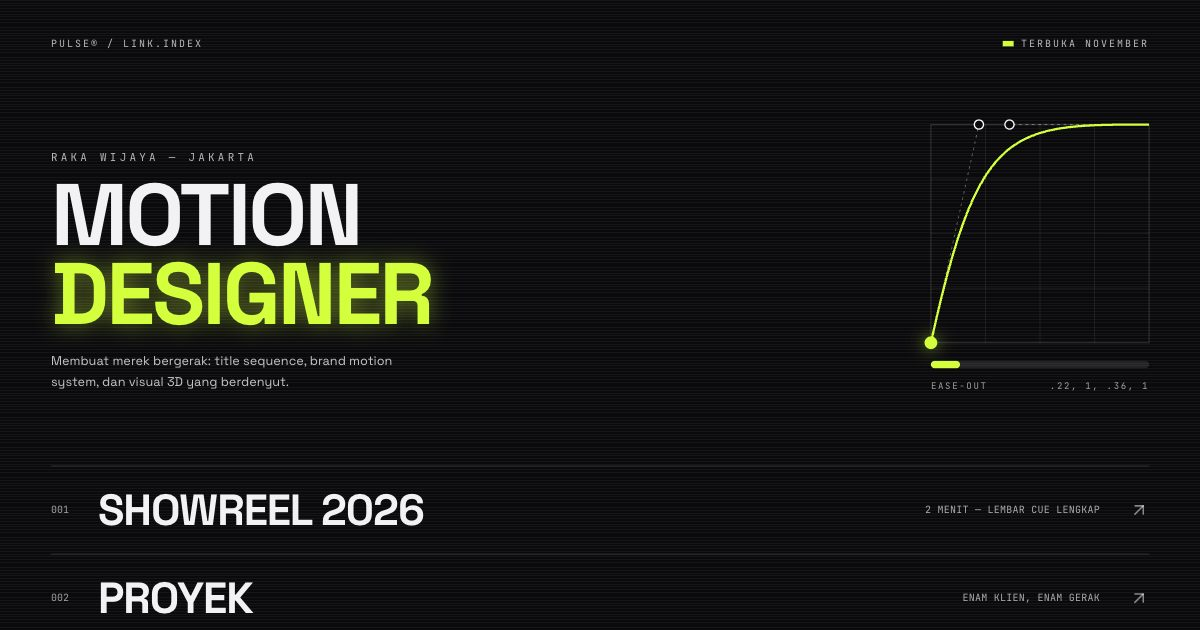
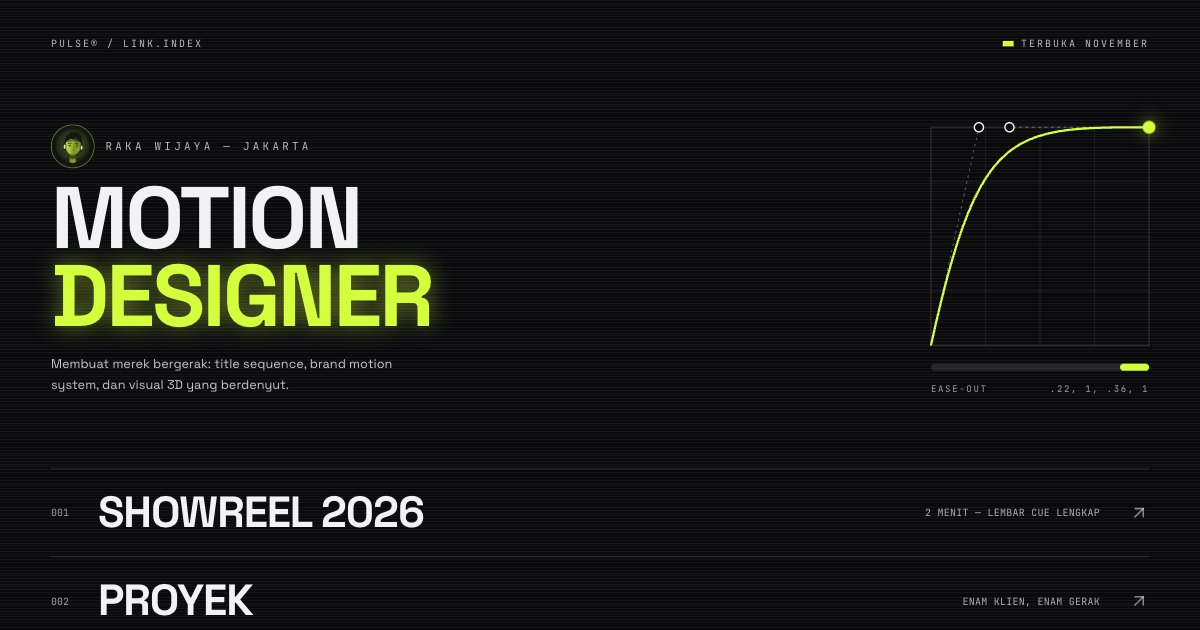
Tambah potret Raka dan bingkai diam showreel serta proyek
- Potret ilustrasi duotone lime kecil di samping nama di beranda (persona fiktif)
- Lembar cue /showreel kini punya monitor yang menampilkan bingkai diam segmen
  yang ditunjuk penanda waktu; daftar proyek bergambar bingkainya
- Delapan ilustrasi asli dicatat di public/images/SUMBER.md; gambar statis
  lewat scripts/static-images.mjs dengan <img srcset>; og.jpg diperbarui

diff --git a/lib/pulse.js b/lib/pulse.js
@@ -16,6 +16,19 @@ export const LINKS = [
   { no: '004', label: 'HIRE ME', meta: 'slot bulan depan terbuka', href: '/hire#form' },
 ];
 
+// Bingkai diam (ilustrasi) tiap segmen showreel dan proyek, di public/images/reel/.
+export const BINGKAI = {
+  pembuka: 'Bingkai pembuka showreel: huruf PULSE berdenyut di tengah cincin lime dan garis detak.',
+  'kota-tanpa-tidur': 'Bingkai title sequence Kota Tanpa Tidur: lampu jalan menyala satu per satu membentuk kata KOTA di atas siluet kota malam.',
+  arus: 'Bingkai brand motion Arus: logo cair berubah dari bulatan menjadi tetesan, lalu ikon tukar transaksi.',
+  'kopi-pagi': 'Bingkai iklan Kopi Pagi: uap dari cangkir kopi membentuk angka jam 07:00.',
+  'riuh-fest': 'Bingkai paket loop Riuh Fest: delapan bentuk dari satu sistem, masing-masing berwarna lain.',
+  penutup: 'Kartu penutup: garis neon menggambar nama RAKA dan alamat raka.pulse.',
+  'peta-rasa': 'Bingkai infografik Peta Rasa: peta Indonesia dari titik-titik dengan sorotan data provinsi.',
+  napas: 'Bingkai animasi aplikasi Napas: tiga layar ponsel dengan lingkaran napas yang mengembang dan mengempis.',
+};
+export const SEGMEN_BINGKAI = ['pembuka', 'kota-tanpa-tidur', 'arus', 'kopi-pagi', 'riuh-fest', 'penutup'];
+
 // Lembar cue showreel 120 detik: [mulai, selesai, proyek, klien, alat, catatan].
 export const CUE = [
   [0, 14, 'Pembuka "PULSE"', 'Proyek pribadi', 'After Effects', 'Huruf yang berdenyut mengikuti ketukan 120 bpm.'],
@@ -27,12 +40,12 @@ export const CUE = [
 ];
 
 export const PROYEK = [
-  { nama: 'Kota Tanpa Tidur', jenis: 'Title sequence', tahun: 2026, durasi: '48 dtk', hasil: 'Diputar di 3 festival film dokumenter (fiktif)' },
-  { nama: 'Arus', jenis: 'Brand motion system', tahun: 2026, durasi: '24 aset', hasil: 'Dipakai di aplikasi & layar kantor cabang' },
-  { nama: 'Kopi Pagi', jenis: 'Iklan 15 detik', tahun: 2025, durasi: '15 dtk', hasil: 'Tiga versi rasio: 9:16, 1:1, 16:9' },
-  { nama: 'Riuh Fest', jenis: 'Loop media sosial', tahun: 2025, durasi: '8 × 6 dtk', hasil: 'Satu sistem bentuk, delapan warna' },
-  { nama: 'Peta Rasa', jenis: 'Infografik bergerak', tahun: 2024, durasi: '90 dtk', hasil: 'Data 34 provinsi dalam satu peta' },
-  { nama: 'Napas', jenis: 'Animasi aplikasi', tahun: 2024, durasi: '12 animasi', hasil: 'Animasi Lottie di bawah 40 KB per file' },
+  { nama: 'Kota Tanpa Tidur', bingkai: 'kota-tanpa-tidur', jenis: 'Title sequence', tahun: 2026, durasi: '48 dtk', hasil: 'Diputar di 3 festival film dokumenter (fiktif)' },
+  { nama: 'Arus', bingkai: 'arus', jenis: 'Brand motion system', tahun: 2026, durasi: '24 aset', hasil: 'Dipakai di aplikasi & layar kantor cabang' },
+  { nama: 'Kopi Pagi', bingkai: 'kopi-pagi', jenis: 'Iklan 15 detik', tahun: 2025, durasi: '15 dtk', hasil: 'Tiga versi rasio: 9:16, 1:1, 16:9' },
+  { nama: 'Riuh Fest', bingkai: 'riuh-fest', jenis: 'Loop media sosial', tahun: 2025, durasi: '8 × 6 dtk', hasil: 'Satu sistem bentuk, delapan warna' },
+  { nama: 'Peta Rasa', bingkai: 'peta-rasa', jenis: 'Infografik bergerak', tahun: 2024, durasi: '90 dtk', hasil: 'Data 34 provinsi dalam satu peta' },
+  { nama: 'Napas', bingkai: 'napas', jenis: 'Animasi aplikasi', tahun: 2024, durasi: '12 animasi', hasil: 'Animasi Lottie di bawah 40 KB per file' },
 ];
 
 export const TARIF = [

diff --git a/app/components/LembarCue.jsx b/app/components/LembarCue.jsx
@@ -1,7 +1,8 @@
 'use client';
 
 import { useState } from 'react';
-import { CUE, tc } from '@/lib/pulse';
+import { BINGKAI, CUE, SEGMEN_BINGKAI, tc } from '@/lib/pulse';
+import Gambar from './Gambar';
 
 const TOTAL = CUE[CUE.length - 1][1];
 
@@ -14,6 +15,13 @@ export default function LembarCue() {
   return (
     <section aria-labelledby="cue-h" className="relative z-10 mt-12 rounded-2xl border border-white/15 bg-white/[0.03] p-5 md:p-8">
       <h2 id="cue-h" className="sr-only">Lembar cue showreel</h2>
+      {/* Monitor: bingkai diam segmen yang sedang ditunjuk penanda waktu */}
+      <div className="relative mb-6 aspect-video overflow-hidden rounded-xl border border-white/15 bg-[#0a0a0c]">
+        {SEGMEN_BINGKAI.map((b, k) => (
+          <Gambar key={b} src={`/images/reel/${b}.webp`} alt={k === i ? BINGKAI[b] : ''} aria-hidden={k === i ? undefined : 'true'} width={1280} height={720} asli={1280} sizes="(min-width: 1024px) 860px, calc(100vw - 88px)" className={`absolute inset-0 h-full w-full object-cover transition-opacity duration-300 ${k === i ? 'opacity-100' : 'opacity-0'}`} />
+        ))}
+        <span className="absolute left-3 top-3 rounded bg-black/70 px-2 py-1 font-mono text-[10px] uppercase tracking-[0.2em] text-[#d3ff3d]" aria-hidden="true">● segmen {i + 1}/{CUE.length}</span>
+      </div>
       <div className="flex items-baseline justify-between font-mono">
         <span className="text-4xl font-bold text-[#d3ff3d] md:text-6xl" aria-hidden="true">{tc(t)}</span>
         <span className="text-xs uppercase tracking-[0.2em] text-white/65">/ {tc(TOTAL)}</span>

diff --git a/app/showreel/page.js b/app/showreel/page.js
@@ -1,4 +1,5 @@
-import { PROYEK, SITE } from '@/lib/pulse';
+import { BINGKAI, PROYEK, SITE } from '@/lib/pulse';
+import Gambar from '../components/Gambar';
 import Kembali from '../components/Kembali';
 import LembarCue from '../components/LembarCue';
 
@@ -21,7 +22,8 @@ export default function Showreel() {
         <h2 id="proyek-h" className="font-mono text-xs uppercase tracking-[0.3em] text-white/70">002 / proyek</h2>
         <ul className="mt-4 border-t border-white/15">
           {PROYEK.map((p) => (
-            <li key={p.nama} className="grid gap-2 border-b border-white/15 py-5 md:grid-cols-[minmax(0,1.3fr)_minmax(0,1fr)_minmax(0,1.4fr)] md:items-baseline md:gap-6">
+            <li key={p.nama} className="grid grid-cols-[7rem_minmax(0,1fr)] gap-x-4 gap-y-2 border-b border-white/15 py-5 md:grid-cols-[10rem_minmax(0,1.3fr)_minmax(0,1fr)_minmax(0,1.4fr)] md:items-center md:gap-6">
+              <Gambar src={`/images/reel/${p.bingkai}.webp`} alt={BINGKAI[p.bingkai]} width={1280} height={720} asli={1280} sizes="(min-width: 768px) 160px, 112px" className="row-span-3 aspect-video w-full rounded-md border border-white/15 object-cover md:row-span-1" />
               <p className="font-display text-3xl font-bold uppercase tracking-tight">{p.nama}</p>
               <p className="font-mono text-xs uppercase tracking-wide text-[#d3ff3d]">{p.jenis} · {p.tahun} · {p.durasi}</p>
               <p className="text-sm text-white/75">{p.hasil}</p>

diff --git a/app/components/Gambar.jsx b/app/components/Gambar.jsx
@@ -1,0 +1,33 @@
+import manifest from '@/image-manifest.json';
+
+// Gambar statis tanpa JavaScript klien: <img> biasa dengan srcset varian WebP buatan
+// scripts/static-images.mjs (peta hash di image-manifest.json, sama seperti image-loader.js).
+// width/height = ukuran tampil (px CSS); tanpa `sizes` dipakai deskriptor 1x/2x,
+// dengan `sizes` dipakai deskriptor lebar sampai `asli` (lebar berkas sumber).
+const LEBAR = [64, 128, 256, 384, 640, 828, 1080, 1280, 1920];
+const varian = (src, w) => {
+  const hash = manifest[src];
+  return hash ? `/_img${src.replace(/\.(png|jpe?g|webp)$/i, '')}.${hash}-${w}.webp` : src;
+};
+const naik = (w) => LEBAR.find((x) => x >= w) ?? LEBAR[LEBAR.length - 1];
+
+export default function Gambar({ src, alt, width, height, sizes, asli = 1920, priority = false, ...rest }) {
+  const srcSet = sizes
+    ? LEBAR.filter((w) => w <= naik(asli)).map((w) => `${varian(src, w)} ${w}w`).join(', ')
+    : `${varian(src, naik(width))} 1x, ${varian(src, naik(width * 2))} 2x`;
+  return (
+    // eslint-disable-next-line @next/next/no-img-element
+    <img
+      src={varian(src, naik(sizes ? Math.min(asli, 1080) : width * 2))}
+      srcSet={srcSet}
+      sizes={sizes}
+      alt={alt}
+      width={width}
+      height={height}
+      loading={priority ? 'eager' : 'lazy'}
+      fetchPriority={priority ? 'high' : undefined}
+      decoding="async"
+      {...rest}
+    />
+  );
+}

diff --git a/app/page.js b/app/page.js
@@ -1,4 +1,5 @@
 import Link from 'next/link';
+import Gambar from './components/Gambar';
 import { ArrowUpRight } from 'lucide-react';
 import { LINKS, PROFIL } from '@/lib/pulse';
 import { hariIniWIB } from '@/lib/waktu';
@@ -49,7 +50,10 @@ export default function Home() {
 
       <section className="masuk relative z-10 mt-14 md:mt-20 md:flex md:items-end md:justify-between md:gap-10" style={{ animationDelay: '0.05s' }}>
         <div>
-          <p className="font-mono text-xs uppercase tracking-[0.3em] text-white/70">{PROFIL.nama} — {PROFIL.kota}</p>
+          <p className="flex items-center gap-3 font-mono text-xs uppercase tracking-[0.3em] text-white/70">
+            <Gambar src="/images/raka-wijaya.webp" alt={`Potret ilustrasi ${PROFIL.nama}`} width={48} height={48} loading="eager" className="h-12 w-12 shrink-0 rounded-full border border-[#d3ff3d]/50 object-cover" />
+            <span>{PROFIL.nama} — {PROFIL.kota}</span>
+          </p>
           <h1 className="mt-3 text-6xl font-bold uppercase leading-[0.9] md:text-8xl">
             Motion<br /><span className="neon-lime">Designer</span>
           </h1>

diff --git a/image-loader.js b/image-loader.js
@@ -1,0 +1,15 @@
+// Loader next/image untuk gambar statis: varian WebP di public/_img/ buatan skrip static-images (lihat
+// image-manifest.json). Tidak memakai Image Optimization Vercel, jadi tidak terikat kuota bulanan.
+// Lebar yang diminta selalu salah satu dari deviceSizes/imageSizes di next.config (= WIDTHS di bawah).
+// Gambar di luar manifest (SVG, GIF, URL luar, impor statis) dikembalikan apa adanya.
+import manifest from './image-manifest.json'
+
+const WIDTHS = [64,128,256,384,640,828,1080,1280,1920]
+
+export default function staticImageLoader({ src, width }) {
+  const hash = manifest[src]
+  if (!hash) return src
+  const w = WIDTHS.find((x) => x >= width) ?? WIDTHS[WIDTHS.length - 1]
+  const stem = src.slice("".length).replace(/\.(png|jpe?g|webp)$/i, '')
+  return `/_img${stem}.${hash}-${w}.webp`
+}

diff --git a/public/images/SUMBER.md b/public/images/SUMBER.md
@@ -1,0 +1,10 @@
+# Sumber gambar
+
+Semua gambar di folder ini adalah ilustrasi asli buatan PintuWeb (digambar lewat kode SVG, lalu diekspor ke WebP).
+Tidak ada foto stok dan tidak ada wajah orang sungguhan; Raka Wijaya dan klien di showreel fiktif.
+
+| Berkas | Isi | Sumber | Lisensi |
+| --- | --- | --- | --- |
+| raka-wijaya.webp | Potret ilustrasi Raka Wijaya (duotone lime) | Ilustrasi asli PintuWeb | Milik PintuWeb |
+| reel/pembuka.webp, kota-tanpa-tidur.webp, arus.webp, kopi-pagi.webp, riuh-fest.webp, penutup.webp | Bingkai diam enam segmen showreel | Ilustrasi asli PintuWeb | Milik PintuWeb |
+| reel/peta-rasa.webp, napas.webp | Bingkai diam dua proyek lain | Ilustrasi asli PintuWeb | Milik PintuWeb |
